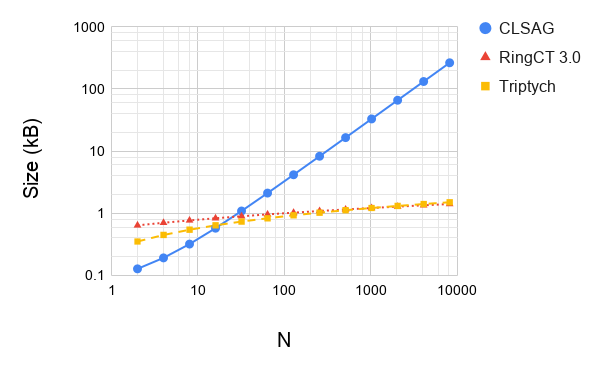
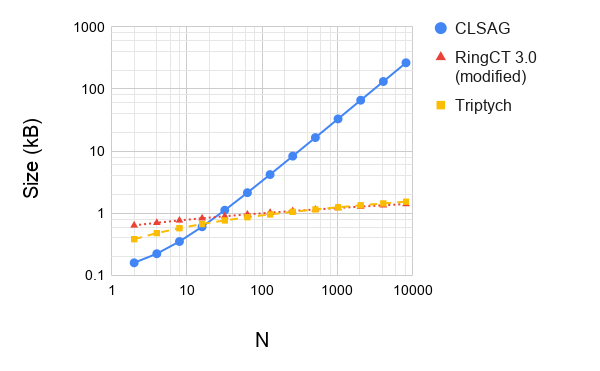
Paper update for efficiency data, narrative clarity, and typos

diff --git a/paper/iacr.tex b/paper/iacr.tex
@@ -184,7 +184,7 @@ We will show that the sigma protocol is complete, sound, and zero-knowledge, the
 Informally, we require the protocol be:
 \begin{itemize}
 \item \textit{Perfectly complete}: Given knowledge of a witness to a statement in the proof relation, an honest prover can always convince an honest verifier of the validity of the witness.
-\item \textit{Special sound}: Given a statement in the proof relation, if a prover can answer multiple honest verifier challenges correctly, then it is possible to extract a witness for this statement.
+\item \textit{Special sound}: Given a statement in the proof relation, if a prover can answer multiple verifier challenges correctly, then it is possible to extract a witness for this statement.
 \item \textit{Special honest-verifier zero knowledge}: Given any statement and verifier challenge, it is possible to simulate a transcript that is accepted by an honest verifier without knowledge of a corresponding witness.
 \end{itemize}
 
@@ -523,7 +523,7 @@ $$\mathcal{P}_{par}(\{M_i\},\{P_i-P'_u\},r_u^{-1}U;(l_u,r_u,s_u-s'_u))$$
 
 For $j \in [0,T)$, the user generates a fresh output of the form $Q_j \equiv \com(b_j,t_j)$ for amount $b_j$ and mask $t_j$.
 The masks are chosen such that for $j \in [1,T)$, we have $t_j$ chosen uniformly at random from $\F$.
-We then choose $$t_0 \equiv \sum_{u=0}^{W-1} s_u' -\sum_{j=1}^{t-1} t_j$$ and include all $\{P'_u\}$ auxiliary commitments in the transaction.
+We then choose $$t_0 \equiv \sum_{u=0}^{W-1} s_u' -\sum_{j=1}^{T-1} t_j$$ and include all $\{P'_u\}$ auxiliary commitments in the transaction.
 
 To verify such a transaction, the verifier first performs verification on each spend proof to ensure it is valid.
 Then, the verifier ensures that $$\sum_{u=0}^{W-1} P'_u - \sum_{j=0}^{T-1} Q_j = 0$$ such that the transaction balances.
@@ -535,30 +535,32 @@ Triptych proofs scale logarithmically with the size of the input anonymity set; 
 Related protocols based on the inner-product compression method of \cite{bulletproofs} include Omniring \cite{omniring} and RingCT 3.0 \cite{omniring}.
 However, it is challenging to directly compare these protocols' efficiency.
 Omniring includes all transaction input signatures, output range proofs, and balance within a single proof structure; however, it is not possible to verify a batch of proofs more efficiently by combining common generators.
-While an early version of RingCT 3.0 used separate input, range, and balance proofs, the most recent version merges all input and balance proofs together but outsources the range proofs to an efficient construction like \cite{bulletproofs}; this comes at the cost of requiring that the number of inputs be a power of two or otherwise carefully padded.
-A more direct comparison is to CLSAG, a linear-sized linkable ring signature construction.
+While an early version of RingCT 3.0 used separate input, range, and balance proofs, the most recent version merges all input and balance proofs together but outsources the range proofs to an efficient construction like \cite{bulletproofs}; this comes at the cost of requiring that the number of inputs be a power of two or otherwise carefully padded (affecting verification time).
+Therefore, for the purpose of comparison we modify slightly the earlier version of RingCT 3.0 with a soundness fix applied from the updated version, ignoring the size and verification cost of non-proof elements.
+Another more direct comparison is to $2$-CLSAG, a linear-sized linkable ring signature construction \cite{clsag}.
 
-We compare size and verification of parallel Triptych, the earlier version of RingCT 3.0 considering only the signature proof component, and CLSAG.
-For verification scaling, we account for the use of batching in Triptych and RingCT 3.0, where generators common to multiple proofs are used only once in verification.
+We now show size and verification comparisons of the parallel instantiation of Triptych, the earlier (modified) version of RingCT 3.0, and $2$-CLSAG.
+For verification scaling, we also account for the use of batching in Triptych and RingCT 3.0, where generators common to multiple proofs are used only once in verification.
 Further, since verification in both of these constructions reduces to checking whether several multiscalar multiplications are zero, we may apply random weighting such that verifying a batch of multiple proofs reduces to a single multiscalar multiplication.
 The use of efficient multiscalar multiplication algorithms like \cite{straus,pippenger} means that an $n$-multiscalar multiplication evaluates as $O(n/\log n)$.
 This form of batching does not apply to CLSAG, where verification consists of a sequence of hash function evaluations.
 
-Table \ref{table:size} compares proof/signature sizes and verification complexity for these constructions.
+Table \ref{table:size} compares proof/signature sizes and verification complexity for these constructions as a function of the anonymity set size $N$ and batch size $B$.
 Verification complexity is separated into the number of hash-to-$\F$ operations (denoted $\hs$), hash-to-$\G$ operations (denoted $\hp$), and $i$-multiscalar multiplication operations of size $k(i)$.
-Figure \ref{fig:size} examines size as a function of input anonymity size under the assumption that elements of both $\G$ and $\F$ occupy $32$ kB of space.
-We note that although RingCT 3.0 proofs are smaller for large $N$, Triptych proofs are smaller in the range $16 < N < 1024$, a reasonable range given practical verification times.
+Figure \ref{fig:size} examines size as a function of input anonymity set size, under the assumption that elements of both $\G$ and $\F$ occupy $32$ kB of space.
+We note that although RingCT 3.0 proofs are slightly smaller for large $N$, Triptych proofs are smaller for $N < 512$, a limited but reasonable range given practical verification times.
+We also note that the application of Triptych in a complete transaction protocol is not directly compared to RingCT 3.0 here, as the use of non-proof/signaure auxiliary data in such a protocol may differ based on particular implementations.
 
 \begin{table}[h]
 \centering
 \begin{tabular}{r|ll|l}
-& Size ($\G$) & Size ($\F$) & Verification \\
+& Size ($\G$) & Size ($\F$) & Verification (batch total) \\
 \hline
-CLSAG \cite{clsag} & $1$ & $N + 1$ & $(N + 2) \hs + N \hp + 2N k(3)$ \\
-RingCT 3.0 \cite{rct3} & $2\lg(N) + 8$ & $10$ & $k(4N + 2\lg(N) + 16)$ \\
-Triptych (this work) & $2\lg(N) + 5$ & $\lg(N) + 3$ & $k(2N + 4\lg(N) + 8)$
+CLSAG \cite{clsag} & $2$ & $N + 1$ & $B(N + 2) \hs + BN \hp + 2BN k(3)$ \\
+RingCT 3.0 \cite{rct3} & $2\lg(N) + 9$ & $9$ & $k(B[2N + 2\lg(N) + 9] + 2N + 5)$ \\
+Triptych (this work) & $2\lg(N) + 6$ & $\lg(N) + 3$ & $k(B[2N + 2\lg(N) + 2] + 2\lg(N) + 3)$
 \end{tabular}
-\caption{Proof sizes and verification complexity, for anonymity set size $N$}
+\caption{Proof sizes and verification complexity, for anonymity set size $N$ and batch size $B$}
 \label{table:size}
 \end{table}
 
